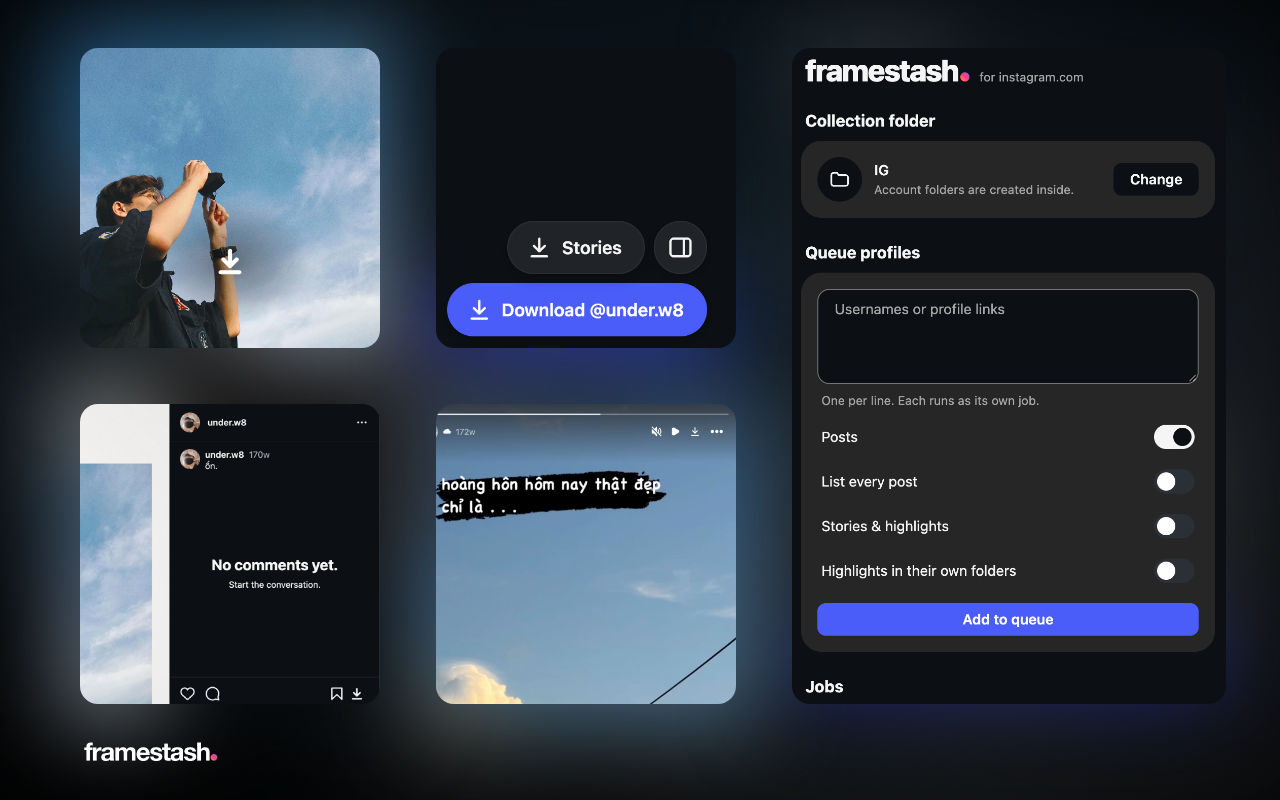
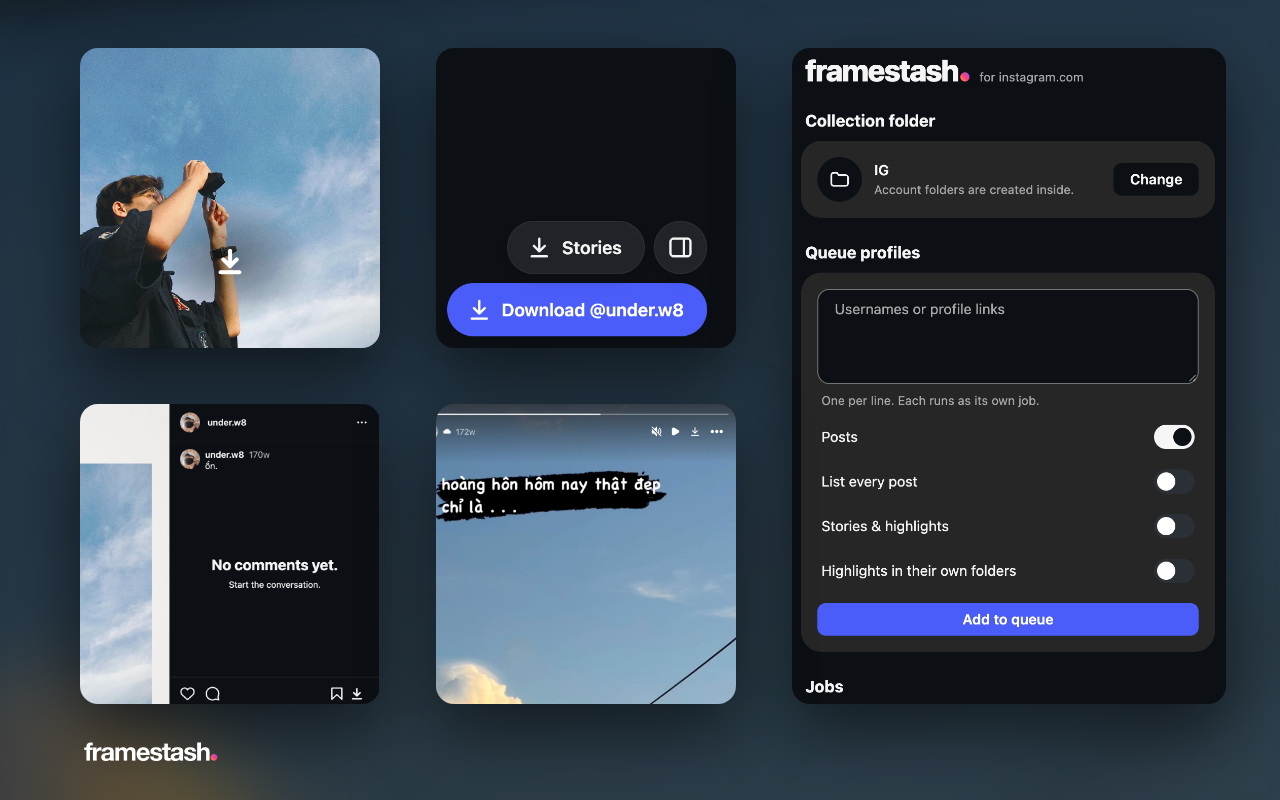
design: hero background and tile shadow match the promo
The background is the promo's blurred story shot, anchored to the bottom
so the story's black caption stays off the canvas. The tile glow and the
vignette give way to the promo's drop shadow.

diff --git a/design/hero/hero.html b/design/hero/hero.html
@@ -2,18 +2,15 @@
 <!-- Framestash hero cover, 1280×800. Shots go in shots/; render with render.sh. -->
 <meta charset="utf-8">
 <style>
-  html, body { margin: 0; width: 1280px; height: 800px; overflow: hidden; background: #000; }
-  .bg { position: absolute; inset: -80px; background: url(shots/tile.png) center / cover; filter: blur(70px) brightness(.22) saturate(1.4); }
-  .vignette { position: absolute; inset: 0; background: radial-gradient(ellipse at center, transparent 30%, rgba(0, 0, 0, .75) 100%); }
+  html, body { margin: 0; width: 1280px; height: 800px; overflow: hidden; background: #0c1014; }
+  /* Same background and shadow as promo.html. Anchored to the bottom so the story's black caption stays off the canvas. */
+  .bg { position: absolute; inset: -80px; background: url(shots/tile2.png) center bottom / cover; filter: blur(40px) brightness(.35) saturate(1.5); }
   .grid { position: absolute; left: 80px; top: 48px; display: grid; grid-template-columns: 300px 300px 434px; grid-template-rows: 300px 300px; gap: 56px; }
-  .grid { isolation: isolate; }
-  .tile { position: relative; border-radius: 18px; background-color: #000; background-repeat: no-repeat; background-size: cover; background-position: center; }
-  /* Glow: a blurred, saturated copy of the tile's own image behind it. */
-  .tile::before { content: ""; position: absolute; inset: -24px; z-index: -1; background: inherit; filter: blur(44px) saturate(1.8) brightness(.85); opacity: .6; }
+  .tile { border-radius: 18px; box-shadow: 0 28px 70px rgba(0, 0, 0, .55); background-color: #000; background-repeat: no-repeat; background-size: cover; background-position: center; }
   .tall { grid-row: span 2; }
   .wordmark { position: absolute; left: 80px; bottom: 30px; height: 34px; }
 </style>
-<div class="bg"></div><div class="vignette"></div>
+<div class="bg"></div>
 <div class="grid">
   <div class="tile" style="background-image: url(shots/tile.png)"></div>
   <div class="tile" style="background-image: url(shots/profile.png); background-position: right bottom"></div>
